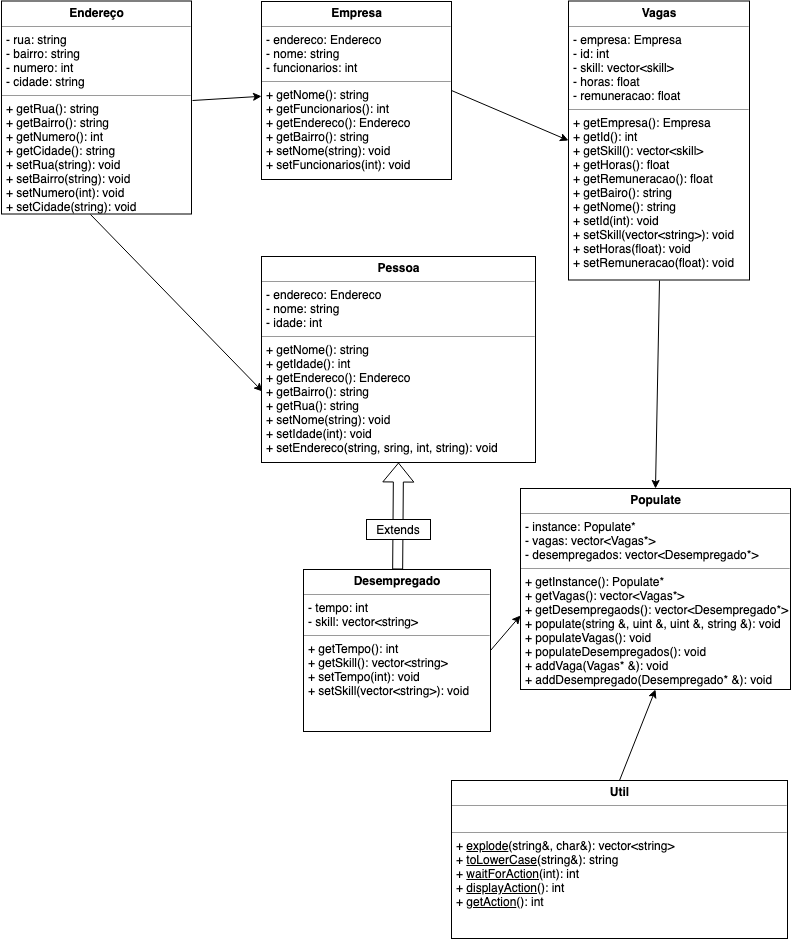
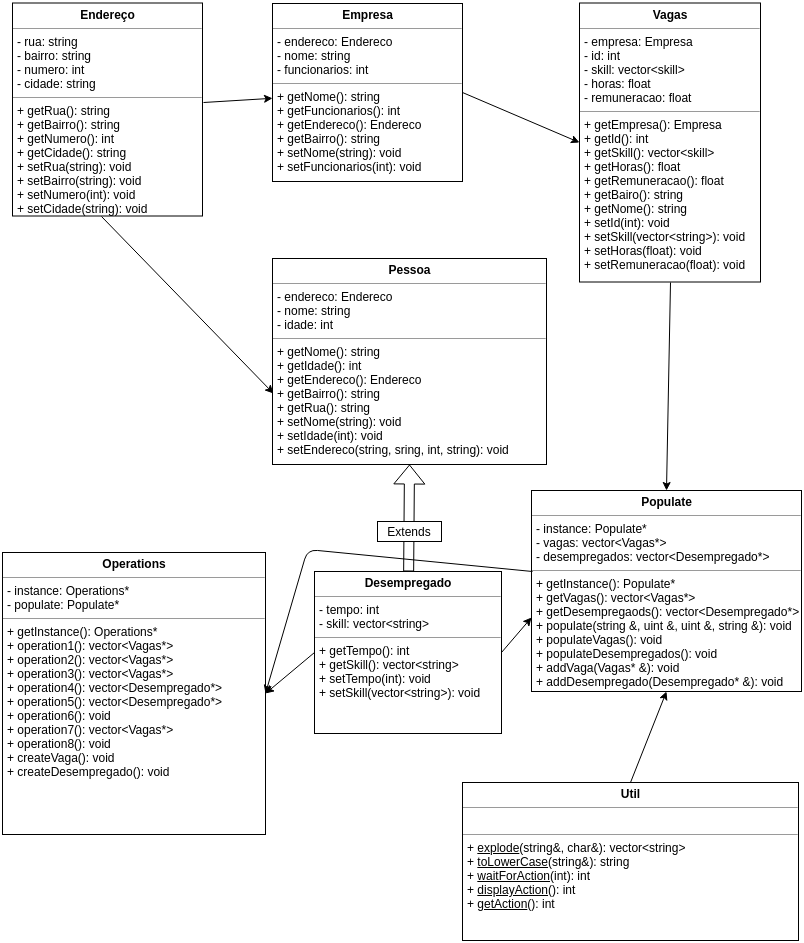
Update RELATORIO.md

diff --git a/include/Operations.h b/include/Operations.h
@@ -24,7 +24,6 @@ public:
   const void createVaga();
   const void createDesempregado();
   const void operation8();
-  const string toLowerCase(const string&);
 
   Operations(const Operations&) = delete;
   Operations& operator=(const Operations&) = delete;

diff --git a/relatorio/RELATORIO.md b/relatorio/RELATORIO.md
@@ -4,8 +4,7 @@
 
 ## Diagrama UML
 
-![UML-Classes image]
-(images/UML-Classes.png)
+![UML-Classes-Image](images/UML-Classes.png)
 
 ## Classes auxiliares
 
@@ -63,5 +62,251 @@ void Populate::populate(const string &path, const uint &qtdParams, const uint &s
     cerr << "File could not be opened!\n"; // Report error
     cerr << "Error code: " << strerror(errno) << endl;
   }
+}
+```
+
+  Ela lê linha por linha os arquivos entradaDes.txt e entradaVagas.txt, cada arquivo tem suas peculiaridades, número diferentes de linhas e cada linha é uma propriedade para criar o objeto das classes, ela recebe a quantidade de parâmetros para ler as linhas e em qual linha estão os skills. A cada iteração de linha um contador é aumentado, caso chegue no número final de parâmetros, ele cria o objeto e reseta o contador, garantindo que o parâmetro certo seja incluido no objeto.
+  
+  Ela ainda é uma função *Singleton*, ou seja, só pode existir uma instancia, garantindo que exista apenas um vetor de vagas e desempregados na execução.
+  
+  Também é a única responsável por adicionar novas classes ao vetor, por segurança.
+  
+  ## Util
+  
+    É a classe com funções staticas auxiliares que podem ser usadas em diversos lugares do programa, funções como:
+    
+```c++
+static const vector<string> explode(const string&, const char&);
+static const string toLowerCase(const string&);
+static const int waitForAction(const int);
+static const int displayAction();
+static const int getAction();
+```
+
+A função explode é responsável por separar uma string em um vector de strings, recebe como parâmetros a string para separar e a string que delimitará a separação. Ex: ',' <- separará por virgula.
+
+A função toLowerCase recebe uma string e retorna um string em caixa baixa, para comparação.
+
+A função waitForAction recebe um int, serve para auxiliar a exibição do programa.
+
+A função displayAction auxilia a exibição do programa.
+
+A função getAction auxilia a exibição do programa.
+
+## Operations
+
+```c++
+const vector<Vagas*> operation1();
+const vector<Vagas*> operation3();
+const vector<Vagas*> operation2();
+const vector<Desempregado*> operation4();
+const vector<Desempregado*> operation5();
+const void operation6();
+const vector<Vagas*> operation7();
+const void createVaga();
+const void createDesempregado();
+const void operation8();
+```
+
+É a classe responsáveis pelas operações pedidas no trabalho, é nela que está a implementação das operações.
+
+Também é uma classe *Singleton*.
+
+### operation1
+```c++
+  vector<Vagas*> result;
+  string inNome;
+
+  getline(cin, inNome);
+  
+  for(Desempregado *desempregado : populate->getDesempregados()) {
+    if(Util::toLowerCase(desempregado->getNome()) == Util::toLowerCase(inNome)) {
+      for(Vagas *vaga : populate->getVagas()) {
+        if(Util::toLowerCase(vaga->getBairro()) == Util::toLowerCase(desempregado->getBairro())) {
+          result.push_back(vaga);
+        }
+      }
+    }
+  }
+  
+for (Vagas* vaga : result) {
+ cout << vaga->getId() << endl;
+}
+```
+Realiza um loop pelo vetor de desempregados, se o nome do desempregado for igual ao nome digitado, ele realiza um outro loop pelo vetor de vagas, comparando o bairro do desempregado com o bairro da vaga, se for igual ele adiciona a vaga em um vetor de resultados, que depois é percorrido listando os ids das vagas.
+
+### operation2
+```c++
+vector<Vagas*> result;
+string nomeDesempregado;
+getline(cin, nomeDesempregado);
+for(Desempregado *desempregado : populate->getDesempregados()) {
+  if(Util::toLowerCase(desempregado->getNome()) == Util::toLowerCase(nomeDesempregado)) {
+    vector<string> skillDesempregado = desempregado->getSkill();
+    uint sizeDesemp = skillDesempregado.size();
+    bool result;
+    for(Vagas *vaga : populate->getVagas()) {
+      vector<string> skillVaga = vaga->getSkill();
+      uint sizeVaga = skillVaga.size();
+      sort(skillVaga.begin(), skillVaga.end());
+      sort(skillDesempregado.begin(), skillDesempregado.end());
+      uint auxSearch = 0;
+      if(sizeVaga <= sizeDesemp) {
+        for(string skill : skillDesempregado) {
+          result = binary_search(skillVaga.begin(), skillVaga.end(), skill);
+          if(result) {
+            auxSearch++;
+          }
+        }
+        if(auxSearch == sizeVaga) {
+          cout << vaga->getId() << endl;
+         }
+      }
+    }
+  }
+}
+```
+Percorre o vetor de desempregados até encontrar um com o nome digitado, se encontrar, recupera o vetor de skill do desempregado, depois percorre o vetor de vagas também recuperando o vetor de skill da vaga, ordena os vetores de skill e realiza uma verificação, se o tamanho do vetor de vagas do desempregado for maior ou igual ao tamanho do vetor de vaga(significa que o empregado possa ter todas as skills necessitadas pela vaga), ele realiza uma busca, percorrendo o vetor de skill do desempregado, se a skill do desempregado estiver no vetor no skill da vaga, ele aumenta o contador, caso contratio nao implementa, ao final, se o contador for igual ao tamanho de vagas, significa que o empregado tem todos os requisitos da vaga.
+
+### operation3
+
+```c++
+vector<Vagas*> result;
+string skillName;
+
+getline(cin, skillName);
+for(Vagas *vaga : populate->getVagas()) {
+  for(string skillVaga : vaga->getSkill()) {
+    if(skillVaga == skillName) {
+      result.push_back(vaga);
+    }
+  }
+}
+
+for (Vagas* vaga : result) {
+ cout << vaga->getId() << endl;
+}
+```
+Percorre o vetor de vagas, e depois o vetor de skill da vaga, se o skill da vaga for igual ao skill digitado, ele adiciona a vaga ao vetor de resultado, depois percorre esse vetor de resultado retornando o id da vaga.
+
+### operation4
+
+```c++
+vector<Desempregado*> result;
+int idVaga;
+cin >> idVaga;
+ 
+for(Vagas *vaga : populate->getVagas()) {
+  if(vaga->getId() == idVaga){
+    for(Desempregado *desempregado : populate->getDesempregados()) {
+      if(Util::toLowerCase(vaga->getBairro()) == Util::toLowerCase(desempregado->getBairro())){
+        result.push_back(desempregado);
+      }
+    }
+  }
+}
+
+for (Desempregado* desempregado : result) {
+  cout << desempregado->getNome() << endl;
+}
+```
+Percorre o vetor de vagas, se o id da vaga for igual ao id digitado, ele percorre o vetor de desempregados, se o bairro da vaga for igual ao bairro do desempregado, ele adiciona o resultado ao vetor de resultados, depois percorre esse vetor de resultados exibindo o nome do desempregado.
+
+### operation5
+
+```c++
+vector<Desempregado*> result;
+int idVaga;
+
+cin >> idVaga;
+for(Vagas *vaga : populate->getVagas()) {
+  if(vaga->getId() == idVaga){
+    for(Desempregado *desempregado : populate->getDesempregados()) {
+      if (vaga->getSkill() == desempregado->getSkill()) {
+        result.push_back(desempregado);
+      }
+    } 
+  }
+}
+
+for (Desempregado* desempregado : result) {
+  cout << desempregado->getNome() << endl;
+}
+```
+Percorre o vetor de vagas, caso o id da vaga for igual ao id digitado, percorre o vetor de desempregados, caso o vetor de skills da vaga for igual ao vetor de skills do desempregado, adiciona ao vetor de resultado, que depois é percorrido retornando o nome do desempregado.
+
+### operation6
+
+```c++
+  vector<Vagas*> resultVagas;
+  vector<Desempregado*> resultDesempregados;
+  string skillName1;
+
+  getline(cin, skillName1);
+
+  for(Vagas *vaga : populate->getVagas()) {
+    for(string skillVaga : vaga->getSkill()) {
+      if(skillVaga == skillName1) {
+        resultVagas.push_back(vaga);
+      }
+    }
+  }
+
+  for(Desempregado *desempregado : populate->getDesempregados()) {
+    for(string skillDesempregado : desempregado->getSkill()) {
+      if(skillDesempregado == skillName1) {
+        resultDesempregados.push_back(desempregado);
+      }
+    }
+  }
+```
+
+### operation7
+
+```c++
+vector<Vagas*> result;
+string nomeEmpresa;
+
+
+getline(cin, nomeEmpresa);
+for(Vagas *vaga : populate->getVagas()) {
+  if(Util::toLowerCase(vaga->getNome()) == Util::toLowerCase(nomeEmpresa)) {
+    result.push_back(vaga);
+    // cout << vaga->getId() << endl;
+  }
+}
+```
+
+### operation8
+
+```c++
+vector<Desempregado*> desempregados = populate->getDesempregados();
+bool result;
+cout << setw(23) << "Nome do desempregado" << setw(5) << " Id da vaga" << endl;
+for(Vagas *vaga : populate->getVagas()) {
+  vector<string> skillVaga = vaga->getSkill();
+  uint sizeVaga = vaga->getSkill().size();
+  uint index = 0;
+  for(Desempregado *desempregado : desempregados) {
+    vector<string> skillDesemp = desempregado->getSkill();
+    uint sizeDesempregado = desempregado->getSkill().size();
+    if(sizeVaga <= sizeDesempregado) {
+      sort(skillVaga.begin(), skillVaga.end());
+      sort(skillDesemp.begin(), skillDesemp.end());
+      uint auxSearch = 0;
+      for (string skill : skillDesemp) {
+        result = binary_search(skillVaga.begin(), skillVaga.end(), skill);
+        if(result) {
+          auxSearch++;
+        }
+      }
+      if(auxSearch == sizeVaga) {
+        cout << setw(23) << desempregado->getNome() << setw(5) << vaga->getId() << endl;
+        desempregados.erase(desempregados.begin() + index);
+        break;
+      }
+    }
+    index++;
+  } 
 }
 ```
